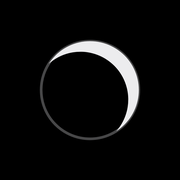
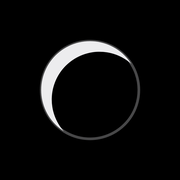
Forsiden: logoet spejlet og fire discipliner i formørkelsen
- Vanta-logoet er spejlvendt i favicon og app-ikoner, så halvmånen står oppe til venstre.
- Formørkelsen ligner logoet: lyset ligger på kanten oppe til venstre, og stregen krydser
  under "Vanta Studio", når heroen er scrollet ud.
- Sektionen hedder "Fire discipliner. Ét studie." og viser Webdesign, Synlighed,
  AI & automatisering og Digitale systemer i én liste med tynde linjer.
- Indholdet toner frem med scroll, fra overskriften over Webdesign til Digitale systemer
  og knappen. Effekten er slået fra ved reduceret bevægelse.

Changed region(s): [[0.2222, 0.2778, 0.7778, 0.7222]]

diff --git a/index.html b/index.html
@@ -223,32 +223,43 @@ img,svg,video{display:block}
 .cta-body p{max-width:460px;margin:0;font-size:clamp(15px,1.2vw,18px);line-height:1.6;color:rgba(237,233,254,.8);text-shadow:0 1px 18px rgba(0,0,0,.95)}
 .credit{position:absolute;right:var(--px);bottom:var(--py);z-index:2;font-size:10px;letter-spacing:.2em;text-transform:uppercase;color:rgba(237,233,254,.45)}
 
-/* ---------- Formørkelse: en sort skive med en glødende kant og teksten i bunden ---------- */
-.eclipse{position:relative;height:100vh;height:100svh;overflow:hidden;background:#000;color:#fff}
-/* Skivens top står 2/3 nede, og radius er halvdelen af sektionens højde. Kanten er en tynd
-   hvidgul streg med orange glød udenfor og en svag glød lige indenfor. */
-.eclipse-ring{position:absolute;top:66.3%;left:50%;height:100.4%;aspect-ratio:1;transform:translateX(-50%);border-radius:50%;background:#000;
-  box-shadow:0 0 0 1.5px #fff2c8,0 0 0 4px #ffb04a,0 0 6px 6px rgba(255,140,40,1),0 0 16px 14px rgba(255,110,20,.85),0 0 34px 26px rgba(230,85,10,.6),0 0 70px 44px rgba(190,60,0,.38),0 0 160px 80px rgba(150,40,0,.2),
-    inset 0 0 0 1.5px #ffcf7a,inset 0 0 8px 4px rgba(255,170,70,.85),inset 0 0 30px 10px rgba(220,90,20,.45),inset 0 0 80px 20px rgba(140,45,0,.25);
+/* ---------- Formørkelse: Vanta-logoet tegnet i lys og de fire discipliner i én kolonne ---------- */
+/* Kolonnen står i bunden. Er den højere end skærmen, vokser sektionen i stedet for at skære
+   teksten af, og toppadding holder den fri af stregen. */
+.eclipse{position:relative;display:flex;flex-direction:column;justify-content:flex-end;min-height:100vh;min-height:100svh;overflow:hidden;padding:max(150px,18svh) 3.177083vw 4.361371svh;background:#000;color:#fff}
+/* Skiven er lige så høj som sektionen, så teksten står inde i den, også når sektionen vokser.
+   Toppen står lige under "Vanta Studio" i hjørnet, så stregen krydser under navnet, når
+   sektionen fylder skærmen, og glider ind bag det, når man scroller videre. Som i logoet ligger
+   lyset på kanten oppe til venstre, og resten af kanten er en svag streg. Lyset er skygger
+   forskudt mod nederst til højre, så stregen er tykkest oppe til venstre og løber ud i spidser.
+   Den negative spredning holder gløden væk fra den mørke side. 1em er 1/900 af skærmens
+   højde, så lyset vokser med skærmen. */
+.eclipse-ring{position:absolute;top:76px;left:calc(var(--px) + 115px);height:100.4%;aspect-ratio:1;transform:translateX(-50%);border-radius:50%;background:#000;
+  font-size:.1116vh;font-size:.1116svh;
+  box-shadow:0 0 0 1px rgba(255,214,170,.2),-5em -5em 12em -2em rgba(255,150,50,.95),-14em -14em 34em -6em rgba(255,110,20,.65),-34em -34em 80em -16em rgba(230,85,10,.42),-70em -70em 180em -40em rgba(170,50,0,.28),
+    inset 9em 9em 0 #fff6dc,inset 15em 15em 8em #ffb04a,inset 26em 26em 30em -4em rgba(255,140,40,.65),inset 48em 48em 70em -10em rgba(220,90,20,.32),inset 90em 90em 130em -20em rgba(140,45,0,.24);
   animation:eclipse-glow 5s ease-in-out infinite alternate}
 @keyframes eclipse-glow{to{filter:brightness(1.18)}}
 /* Mørk bund, så teksten kan læses, hvor kanten løber bag den */
 .eclipse::after{content:"";position:absolute;left:0;right:0;bottom:0;height:45%;background:linear-gradient(to top,rgba(0,0,0,.72),rgba(0,0,0,0));pointer-events:none}
-.eclipse-text{position:absolute;bottom:4.361371svh;z-index:1;color:#f7f7f7;text-shadow:0 1px 18px rgba(0,0,0,.85)}
-.eclipse-text h2{margin:0 0 .6em;font-family:"Fraunces","Times New Roman",serif;font-weight:300;font-variation-settings:"opsz" 72;font-size:clamp(24px,2.2vw,34px);line-height:1.05;letter-spacing:-.02em;color:#fff}
-.eclipse-text p{margin:0 0 .9em;font-size:clamp(13px,1vw,15px);line-height:1.55;color:rgba(247,247,247,.82)}
-/* Overskriften står nederst til venstre, afsnittet med knappen nederst til højre */
-.eclipse-text--left{left:3.177083vw;width:min(370px,25.5vw)}
-.eclipse-text--right{right:3.177083vw;width:min(340px,24vw)}
-.eclipse-pill{display:inline-flex;align-items:center;height:44px;margin-top:.4em;padding:0 1.4em;border-radius:999px;background:#fff;color:#161616;font-size:14px;letter-spacing:.02em;text-shadow:none;transition:background-color .2s}
+.eclipse-text{position:relative;z-index:1;width:min(960px,100%);color:#f7f7f7;text-shadow:0 1px 18px rgba(0,0,0,.85)}
+.eclipse-text h2{margin:0 0 clamp(28px,4.5svh,44px);font-family:"Fraunces","Times New Roman",serif;font-weight:300;font-variation-settings:"opsz" 72;font-size:clamp(24px,2.2vw,34px);line-height:1.05;letter-spacing:-.02em;color:#fff}
+.eclipse-text p{margin:0;font-size:clamp(13px,1vw,15px);line-height:1.55;color:rgba(247,247,247,.82)}
+/* De fire områder er åbne felter med en tynd linje over, mellem og under dem. Hvert felt har
+   linjen over sig og det sidste også linjen under, så linjerne toner frem sammen med felterne.
+   Titel og beskrivelse står tættere sammen end felterne, så de tydeligt hører sammen. */
+.eclipse-areas{margin:0 0 clamp(32px,4.5svh,44px);padding:0;list-style:none}
+.eclipse-areas li{display:grid;gap:10px;padding:30px 0;border-top:1px solid rgba(255,255,255,.2)}
+.eclipse-areas li:last-child{border-bottom:1px solid rgba(255,255,255,.2)}
+.eclipse-areas h3{margin:0;font-size:clamp(15px,1.15vw,17px);font-weight:500;line-height:1.3;letter-spacing:-.005em;color:#fff}
+.eclipse-pill{display:inline-flex;align-items:center;height:44px;padding:0 1.4em;border-radius:999px;background:#fff;color:#161616;font-size:14px;letter-spacing:.02em;text-shadow:none;transition:background-color .2s}
 .eclipse-pill:hover{background:#ffe6d6}
-/* Små skærme og højformat: tekstblokkene står under hinanden i bunden */
+/* Små skærme og højformat: stregen går i hele bredden, så teksten starter længere nede, og skiven rykkes lidt til højre */
 @media (max-width:760px),(max-aspect-ratio:1/1){
-  .eclipse{display:flex;flex-direction:column;justify-content:flex-end;gap:12px;padding:0 var(--px) 8svh}
-  .eclipse-text{position:relative;left:auto;right:auto;bottom:auto;width:auto;max-width:34rem}
+  .eclipse{padding:180px var(--px) 8svh}
+  .eclipse-ring{left:calc(var(--px) + 170px)}
 }
-/* Højformat: skiven rykkes op, så kanten står over teksten */
-@media (max-aspect-ratio:1/1){.eclipse-ring{top:44.3%}}
+@media (max-width:760px){.eclipse-areas li{padding:22px 0}}
 
 /* ---------- Afsluttende CTA: video der styres af musen + skrivemaskine ---------- */
 .hej-run{position:relative;z-index:1;height:190vh;margin-top:-190vh}
@@ -377,12 +388,14 @@ img,svg,video{display:block}
 
 <section class="eclipse" id="flere-kunder" aria-labelledby="flere-kunder-titel">
   <div class="eclipse-ring" aria-hidden="true"></div>
-  <div class="eclipse-text eclipse-text--left">
-    <h2 id="flere-kunder-titel">Flere kunder.<br>Færre manuelle opgaver.</h2>
-    <p>Vi hjælper virksomheder med at blive fundet, få flere henvendelser og skabe overblik i hverdagen. Fra synlighed på Google og chatbots, der griber kundernes spørgsmål, til CRM og booking, der samler trådene.</p>
-  </div>
-  <div class="eclipse-text eclipse-text--right">
-    <p>Vi tager udgangspunkt i din virksomhed og forbinder de løsninger, der giver mening for dig. Så vejen fra første henvendelse til næste aftale bliver lettere.</p>
+  <div class="eclipse-text">
+    <h2 id="flere-kunder-titel">Fire&nbsp;discipliner. Ét&nbsp;studie.</h2>
+    <ul class="eclipse-areas">
+      <li><h3>Webdesign</h3><p>Hjemmesider med fokus på design, oplevelse og henvendelser.</p></li>
+      <li><h3>Synlighed</h3><p>SEO, AEO og GEO, der gør din virksomhed synlig i søgemaskiner og AI-svar.</p></li>
+      <li><h3>AI &amp; automatisering</h3><p>Chatbots og workflows, der sparer tid i hverdagen.</p></li>
+      <li><h3>Digitale systemer</h3><p>CRM, booking og løsninger, der samler virksomheden.</p></li>
+    </ul>
     <a class="eclipse-pill" href="/om-vanta">Læs mere om Vanta</a>
   </div>
 </section>
@@ -521,6 +534,53 @@ img,svg,video{display:block}
     // Første skift venter, til bogstaverne er tonet frem
     setTimeout(function () { setInterval(next, 3500); }, 1800);
   })();
+})();
+</script>
+
+<script>
+// Formørkelsen: indholdet toner frem, mens man scroller ned til sektionen. Hvert element starter
+// usynligt og toner frem, mens det glider op gennem den nederste fjerdedel af skærmen. Derfor
+// kommer overskriften først, så Webdesign og til sidst Digitale systemer og knappen. Alt er
+// fremme, når sektionen fylder skærmen, eller når dens bund når skærmens bund, hvis den er højere.
+(function () {
+  var section = document.getElementById("flere-kunder");
+  if (!section || matchMedia("(prefers-reduced-motion: reduce)").matches) return;
+  var items = [section.querySelector(".eclipse-text h2")]
+    .concat([].slice.call(section.querySelectorAll(".eclipse-areas li")), [section.querySelector(".eclipse-pill")]);
+  var clamp = function (v, a, b) { return Math.min(b, Math.max(a, v)); };
+  var queued = false;
+
+  // Elementets top i sektionen, uden den forskydning scriptet selv giver det
+  function offset(el) {
+    var y = 0;
+    for (; el && el !== section; el = el.offsetParent) y += el.offsetTop;
+    return y;
+  }
+  function update() {
+    queued = false;
+    var ih = window.innerHeight;
+    var top = section.getBoundingClientRect().top;
+    // Sektionens top, når alt skal være fremme
+    var end = Math.min(0, ih - section.offsetHeight);
+    items.forEach(function (el) {
+      var y = offset(el);
+      // Fremme, når elementet er nået 3/4 op ad skærmen, men senest når sektionen er på plads.
+      // Fadet varer mindst 80 px scroll, så knappen nederst ikke springer frem.
+      var done = Math.max(ih * 0.75, y + end);
+      var from = Math.max(ih * 0.98, done + 80);
+      var k = clamp((from - (top + y)) / (from - done), 0, 1);
+      k = k * k * (3 - 2 * k);
+      el.style.opacity = k;
+      el.style.transform = k < 1 ? "translateY(" + ((1 - k) * 40).toFixed(1) + "px)" : "";
+      el.style.filter = k < 1 ? "blur(" + ((1 - k) * 6).toFixed(2) + "px)" : "";
+    });
+  }
+  function onScroll() {
+    if (!queued) { queued = true; requestAnimationFrame(update); }
+  }
+  update();
+  window.addEventListener("scroll", onScroll, { passive: true });
+  window.addEventListener("resize", onScroll);
 })();
 </script>
 
